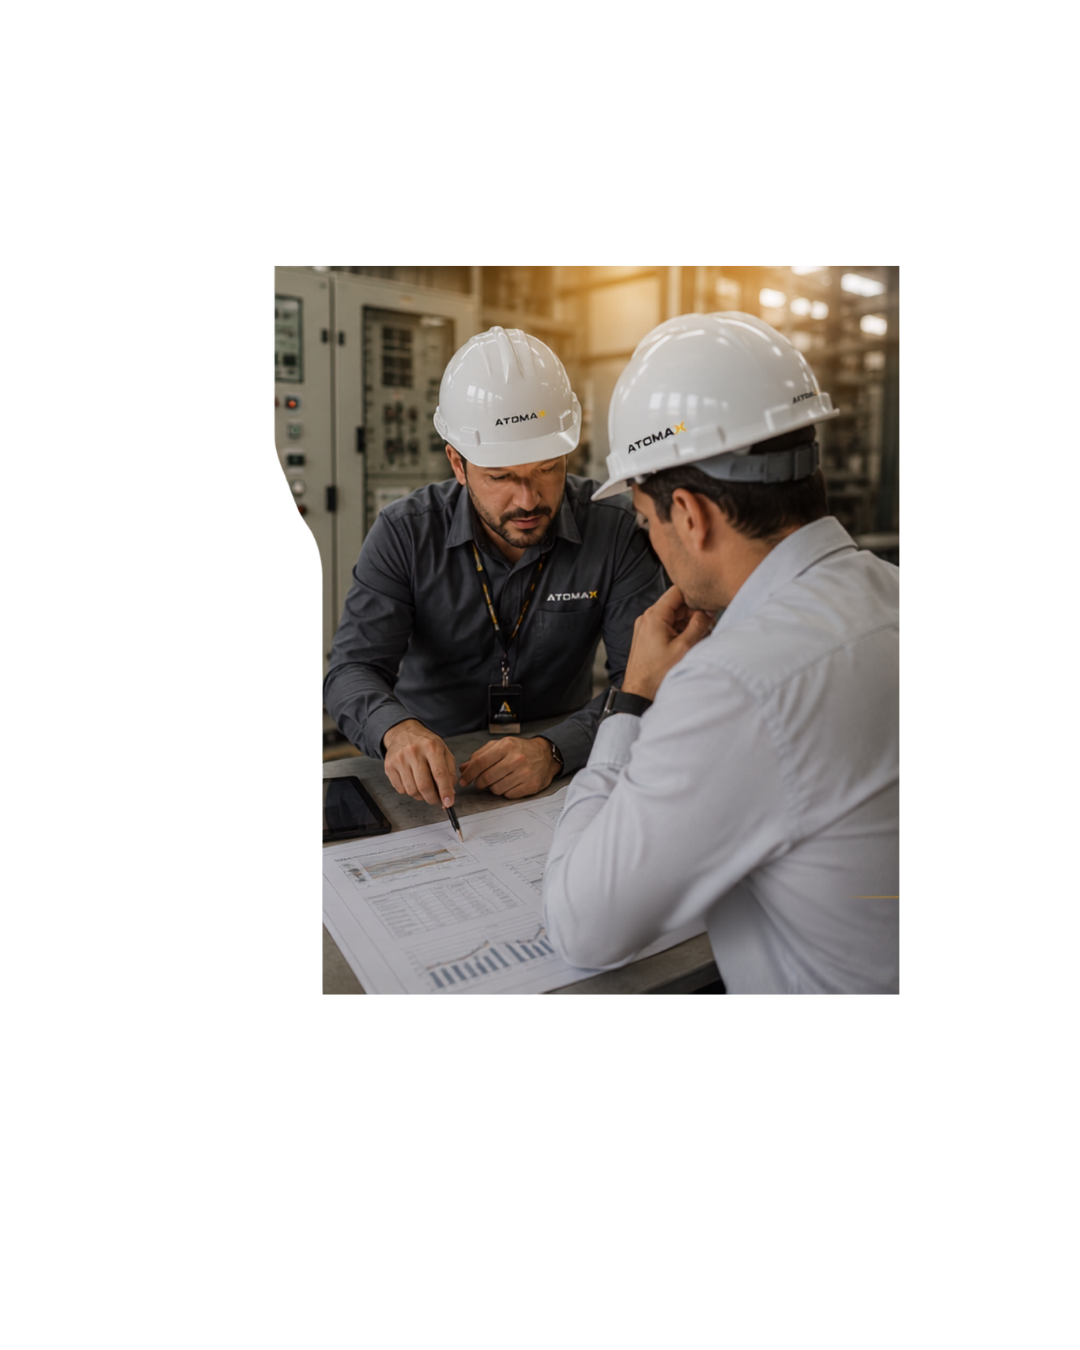
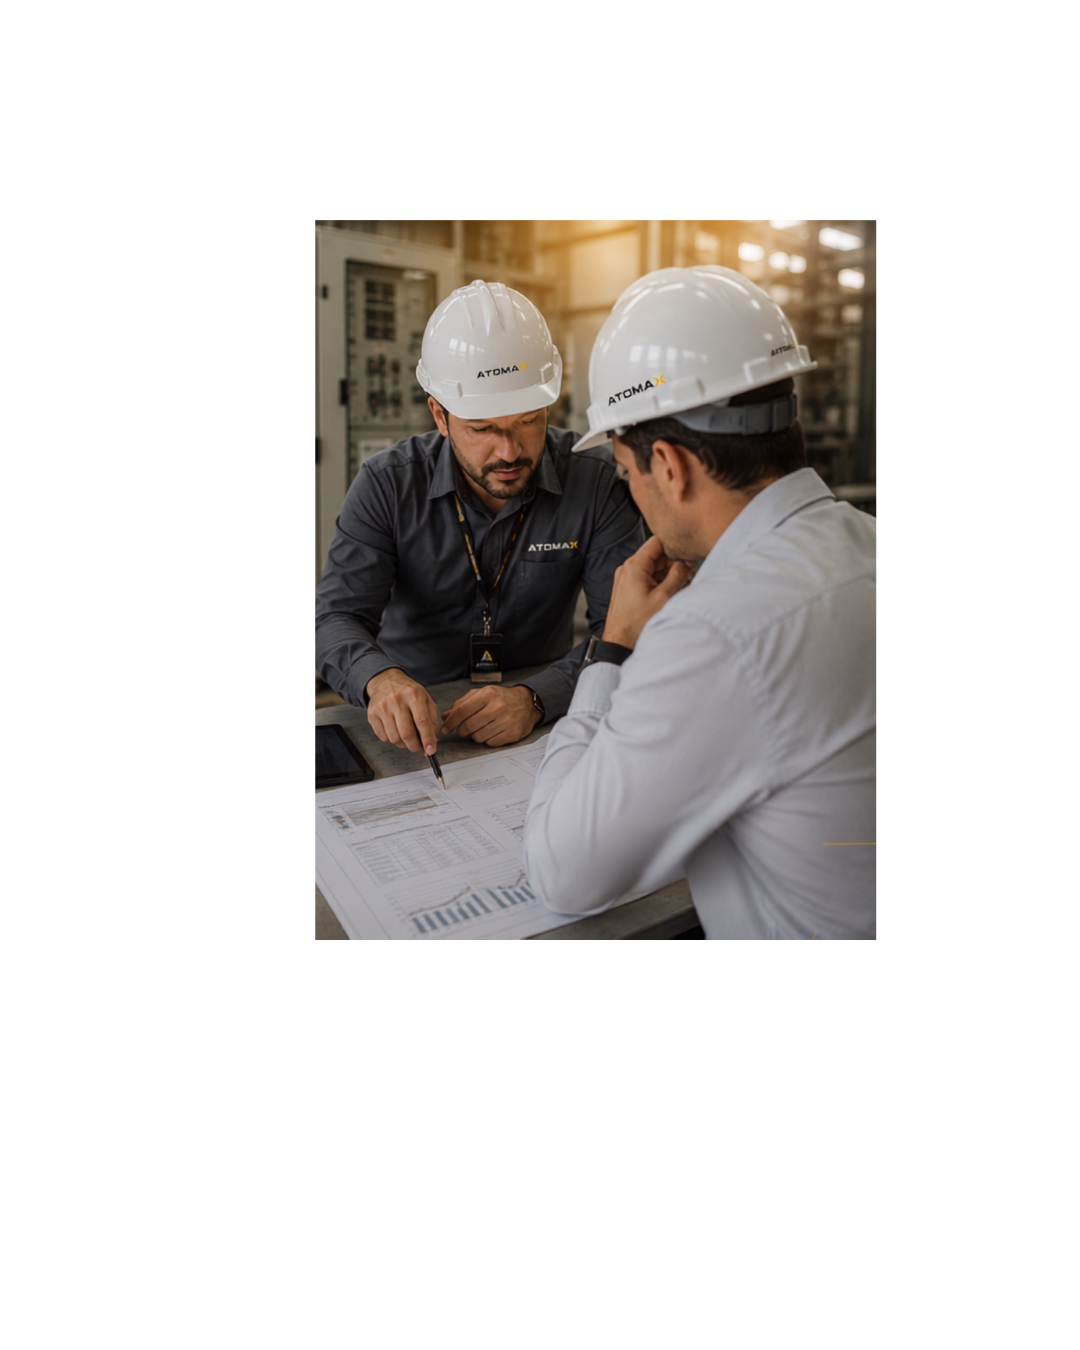
ataulizado seção de header, seção de sobre  e icone de entrar em contato

Changed region(s): [[0.2444, 0.1556, 0.8556, 0.7467]]

diff --git a/index.html b/index.html
@@ -54,20 +54,18 @@
       </nav>
 
       <div class="contact-header">
-        <a href="https://wa.me/5547999985684" target="_blank" class="btn btn-primary"
-          style="padding: 10px 24px; font-size: 0.95rem; border-radius: 55px;">
-          <img src="./assets/img/whatsapp-icon.svg" alt="WhatsApp" class="whatsapp-btn-icon">
-          Entrar em contato
+        <a href="https://wa.me/5547999985684" target="_blank">
+          <img src="./assets/img/whatsapp-original.svg" alt="WhatsApp" style="height: 40px; width: auto;">
         </a>
       </div>
     </div>
   </header>
 
-  
 
-  <section class="services-detailed">
-    <div class="container">
-      <div class="carousel-container">
+
+  <section class="services-detailed" style="height: 100vh; display: flex; align-items: center; padding-top: 80px; overflow: hidden;">
+    <div class="container" style="height: 100%; display: flex; flex-direction: column; justify-content: center;">
+      <div class="carousel-container" style="height: 100%; max-height: 80vh; display: flex; flex-direction: column;">
 
         <!-- Slide 1: Projetos (Baseado na imagem) -->
         <div class="carousel-slide active" data-index="0">
@@ -149,7 +147,7 @@
             <div class="slide-text-area">
               <div class="slide-header">
                 <span class="label-line"></span>
-                <span class="label">SERVIÇOS</span>
+                <span class="label">LAUDOS, MEDIÇÕES E ESTUDOS</span>
               </div>
               <h2>Laudos, medições e estudos que geram segurança, economia e conformidade.</h2>
               <p class="description">
@@ -186,7 +184,7 @@
             <div class="slide-text-area">
               <div class="slide-header">
                 <span class="label-line"></span>
-                <span class="label">SERVIÇOS ESPECIALIZADOS</span>
+                <span class="label">GERENCIAMENTO, SUPERVISÃO E FISCALIZAÇÃO DE OBRAS</span>
               </div>
               <h2>Gerenciamento, supervisão e fiscalização de obras com excelência e responsabilidade.</h2>
               <p class="description">
@@ -223,7 +221,7 @@
             <div class="slide-text-area">
               <div class="slide-header">
                 <span class="label-line"></span>
-                <span class="label">SERVIÇOS ESPECIALIZADOS</span>
+                <span class="label">MANUTEÇÃO ELÉTRICA</span>
               </div>
               <h2>Manutenção elétrica e sistema preventivo para máxima segurança e continuidade.</h2>
               <p class="description">
@@ -262,7 +260,7 @@
             <div class="slide-text-area">
               <div class="slide-header">
                 <span class="label-line"></span>
-                <span class="label">SERVIÇOS ESPECIALIZADOS</span>
+                <span class="label">PERÍCIA TÉCNICA</span>
               </div>
               <h2>Perícia técnica com precisão, imparcialidade e fundamentação.</h2>
               <p class="description">
@@ -300,7 +298,7 @@
             <div class="slide-text-area">
               <div class="slide-header">
                 <span class="label-line"></span>
-                <span class="label">SERVIÇOS ESPECIALIZADOS</span>
+                <span class="label">TREINAMENTOS</span>
               </div>
               <h2>Treinamentos que transformam conhecimento em segurança, eficiência e resultados.</h2>
               <p class="description">
@@ -526,9 +524,10 @@
 
 
 
-  <section class="about-company" id="empresa">
-    <div class="container">
-      <div class="about-top">
+  <section class="about-company" id="empresa" style="position: relative; overflow: hidden;">
+    <img src="./assets/img/logo-atomax-maior.png" alt="" style="position: absolute; top: 50%; left: 50%; transform: translate(-50%, -50%); opacity: 0.05; width: 90%; max-width: 800px; z-index: 0; pointer-events: none;">
+    <div class="container" style="position: relative; z-index: 1;">
+      <div class="about-top" style="grid-template-columns: 1fr;">
         <div class="about-text">
           <span class="label">SOBRE A ATOMAX</span>
           <h2>
@@ -573,12 +572,6 @@
           </p>
         </div>
 
-        <div class="about-image-box">
-          <div class="logo-showcase">
-            <img class="logo-maior" src="./assets/img/logo-atomax-maior.png" alt="">
-
-          </div>
-        </div>
       </div>
 
       <div class="about-features-grid">

diff --git a/css/style.css b/css/style.css
@@ -227,8 +227,8 @@ body {
 }
 
 .whatsapp-btn-icon {
-  width: 18px;
-  height: 18px;
+  width: 25px;
+  height: 25px;
   object-fit: contain;
   filter: brightness(0) invert(1);
   flex-shrink: 0;
@@ -944,6 +944,7 @@ body {
   top: 0;
   left: 0;
   width: 100%;
+  height: 100%;
   display: flex;
   opacity: 0;
   visibility: hidden;
@@ -955,7 +956,6 @@ body {
   border-radius: 16px;
   box-shadow: 0 10px 30px rgba(0, 0, 0, 0.08);
   overflow: hidden;
-  min-height: 750px;
 }
 
 .carousel-slide.active {
@@ -963,6 +963,7 @@ body {
   visibility: visible;
   transform: translateX(0);
   position: relative;
+  height: 100%;
 }
 
 /* --- Área de Texto (Esquerda) --- */
@@ -975,8 +976,8 @@ body {
   position: relative;
   z-index: 2;
   background: #fff;
-  /* Cria aquele efeito da borda direita inclinada avançando sobre a imagem */
   clip-path: polygon(0 0, 100% 0, 92% 100%, 0% 100%);
+  height: 100%;
 }
 
 .slide-text-area {
@@ -1095,6 +1096,7 @@ body {
   position: relative;
   overflow: hidden;
   margin-left: -5%;
+  height: 100%;
 }
 
 .slide-image-area img {